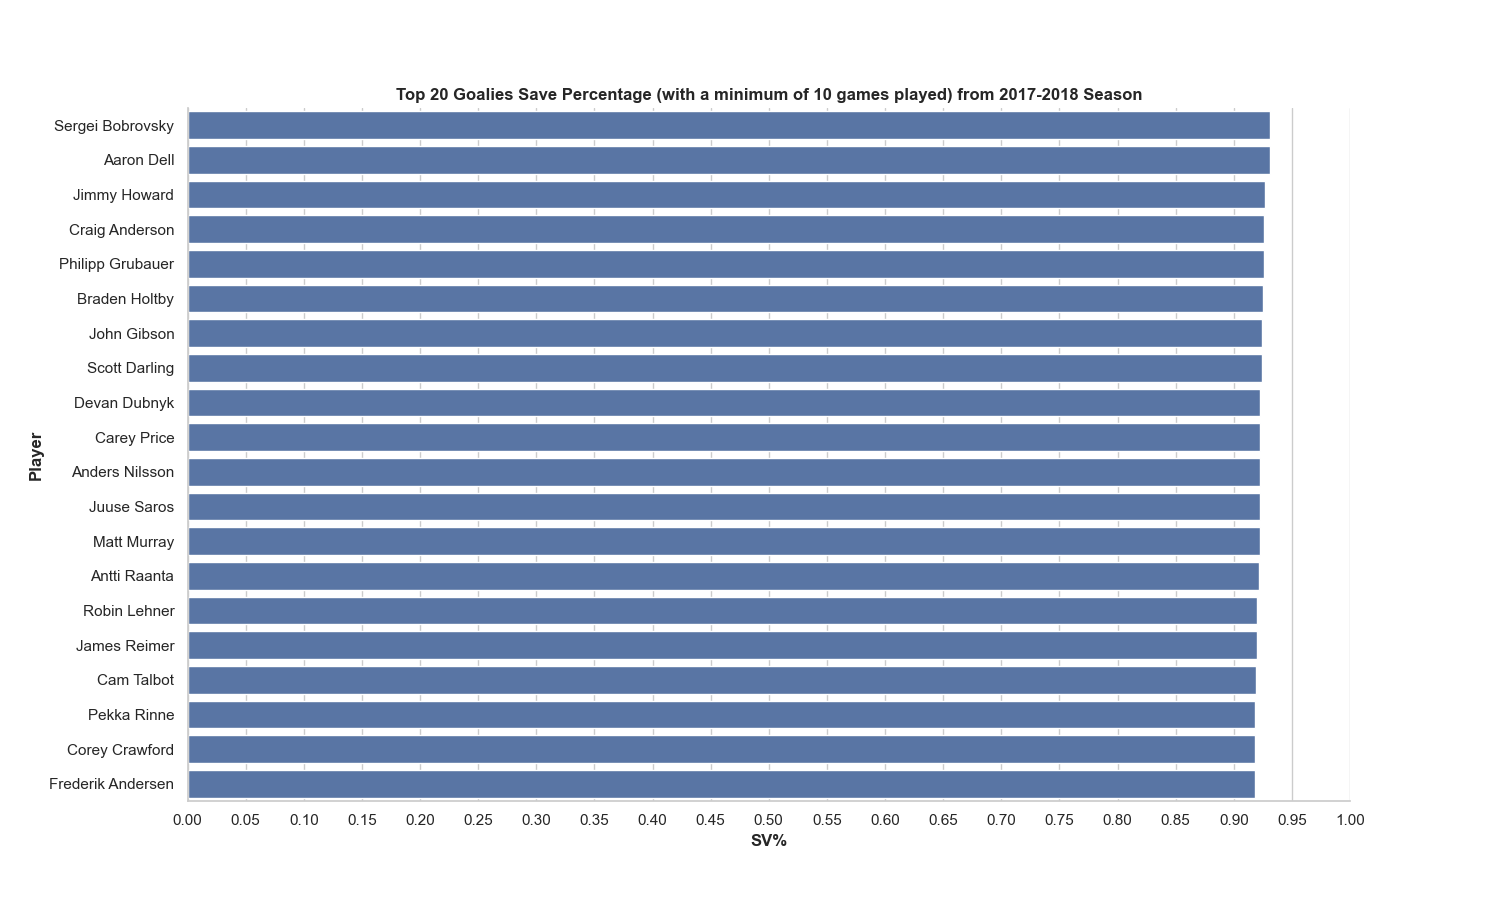
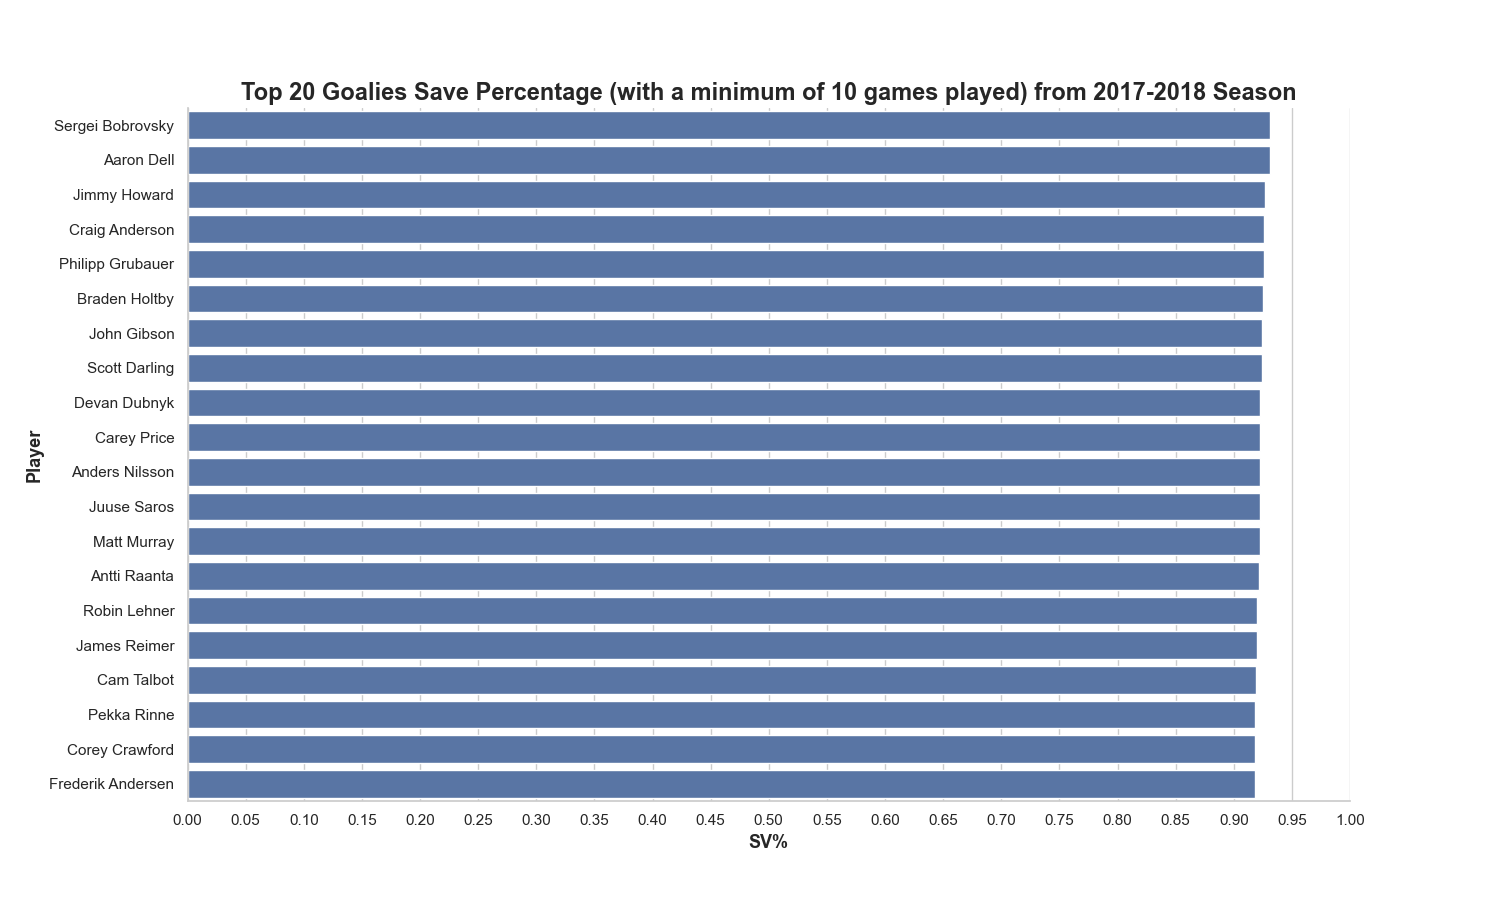
#2 Finalizing warmup blog post. Fixed milestone-1 specific page to show all appropriate content.

Changed region(s): [[0.1533, 0.0933, 0.8587, 0.1244], [0.0, 0.4667, 0.0307, 0.5289], [0.4907, 0.9333, 0.5213, 0.9644]]

diff --git a/project/ift6758/data/question_1.py b/project/ift6758/data/question_1.py
@@ -2,7 +2,9 @@ import pandas as pd
 import matplotlib.pyplot as plt
 import seaborn as sns
 
+# FEATURE TOGGLES
 MASK_TOGGLE = False
+
 
 def get_player_stats(year: int, player_type: str) -> pd.DataFrame:
     """
@@ -83,9 +85,9 @@ def main():
 
         fig1 = sns.barplot(x="SV%", y="Player", data=goalies_masked, label="Total", color="b")
 
-        plt.title('Top 20 Goalies Save Percentage (with a minimum of 10 games played) from 2017-2018 Season', weight='bold')
-        plt.xlabel('SV%', weight='bold')
-        plt.ylabel('Player', weight='bold')
+        plt.title('Top 20 Goalies Save Percentage (with a minimum of 10 games played) from 2017-2018 Season', weight='bold', fontsize=17)
+        plt.xlabel('SV%', weight='bold', fontsize=13)
+        plt.ylabel('Player', weight='bold', fontsize=13)
 
         sns.despine()
 
@@ -102,9 +104,9 @@ def main():
 
         fig1 = sns.barplot(x="SV%", y="Player", data=goalies, label="Total", color="r")
 
-        plt.title('Top 20 Goalies Save Percentage (with no minimum games played) from 2017-2018 Season', weight='bold')
-        plt.xlabel('SV%', weight='bold')
-        plt.ylabel('Player', weight='bold')
+        plt.title('Top 20 Goalies Save Percentage (with no minimum games played) from 2017-2018 Season', weight='bold', fontsize=17)
+        plt.xlabel('SV%', weight='bold', fontsize=13)
+        plt.ylabel('Player', weight='bold', fontsize=13)
 
         sns.despine()
 

diff --git a/blog/_posts/2021-09-28-milestone-1.md b/blog/_posts/2021-09-28-milestone-1.md
@@ -4,19 +4,34 @@ title: IFT6758 Milestone 1
 ---
 
 ## Warmup
+Analyzing sports is becoming more and more valuable with the growth of various sensors and technology. In the case of hockey in partiular, be it a goalie or skater, there are certainly a wide range of metrics available for us to analyze the performace of hockey player.
+
 ### Question 1
-Although using the Save Percentage (SV%) is a relatively good metric to measure a goalie's performance, it is certainly not without a set of limitations. For instance, the main one being the number of games played by the goalies. For example, goalies who played one game compared to another goalie who played 50 games. If a goalie played only one game and ended the game with zero goals conceded, he will have an average of 100.00 SV% for this metric. In contrast, a goalie who played 50 games and has an average of 95.00 SV% will look like he was worst than the one with 100.00 SV%. Where in reality, the goalie who played only one game might had an "easier game" or only had to save one shot, which leads to our second issue. A better metric would be for instance to set an inclusion criteria based on a threshold of games played for each goalie. For example, setting a threshold of at least 10 games played before inculding that goalies performance on the 'Top goalies' analysis would be a way to control for the 'low number of shots received and high number of saves' bias. Another more direct inclusion criteria could be to simply set a threshold for the number of shots received by each goalie.
+In the case of hockey goalies, although using the Save Percentage (SV%) is a relatively good metric to measure a goalie's performance, it is certainly not without a set of limitations. The main one being the number of games played by the goalies.
+
+> Save percentage (often known by such symbols as SV%, SVS%, SVP, PCT) is a statistic in many sports that track saves as a statistic. In ice hockey and lacrosse, it is a statistic that represents the percentage of shots on goal a goaltender stops. It is calculated by dividing the number of saves by the total number of shots on goal.
+
+*Here is more information on [save percentage](https://en.wikipedia.org/wiki/Save_percentage).*
+
+For example, if we compare a goalie who only played one game to another goalie who played 50 games during the season. If the goalie who played the single game and ended the game with zero goals conceded, he will have an average SV% of 100.00. In contrast, the goalie who played 50 games and has an average SV% of 95.00 will look like he was worst than the one with 100.00 SV%. Where in reality, the goalie who played only one game might had an "easier game" or even possibly only had to save a very low amount of low quality shots. Here is a visualization of the top 20 nhl goalies from the 2017-2018 season solely based on their save percentage metric:
+
+![Top 20 Goalies 2017](/public/top-goalies-nomask.png)
+
+
+A better metric would be for instance to set an inclusion criteria based on a preset threshold of games played for each goalie. For example, setting a threshold of at least 10 games played before even considering the goalie's performance on the 'Top goalies' analysis. This would be a way to control the 'low number of shots received with high number of saves' bias. Another, slighlty different inclusion criteria could be to simply set a threshold for the number of shots received by each goalie.
 
 ### Question 2
-Both these graphs were generated using the top 20 goalies based on their SV%. Graph 1 applied a mask that excluded goalies that had less than 10 games played. Graph 2 included all goalies, independantly of the numbers of games played.
+Here is a filtered visualization where we applied a mask that excluded goalies that had less than 10 games played during that same season:
 
-#### Graph 1:
-![Top 20 Goalies 2017](public/top-goalies-mask.png)
-
-#### Graph 2:
-![Top 20 Goalies 2017](public/top-goalies-nomask.png)
+![Top 20 Goalies 2017](/public/top-goalies-mask.png)
 
 
 ### Question 3
-There are many features that could optimise the estimation of a goalie's performance. Save Percentage, although limited in it's interpretation is actually quite relevant when used appropriately and within it's set of limitations. Another usefull feature could be the SV% for each of the 3 periods. This could be an indicator of performance in function of time, although this feature would again be subject to similar limitation as previously discussed. On the other hand, if the inclusion criterias are set in a way to reduce the bias discussed in question 1, then this feature could be quite interesting to measure if a goalie's performance decrease, remains stable, or increases as the game progresses. Taking a look at where (in terms of a 2D space representing the surface of the goal's entrance) the goalie seems to be most efficient in saving/conceding shots could definetly be a usefull feature to highlight the strenghts/weaknesses of a goalie's performance. If for instance most shots a goalie conceeds are located on the top-right space of the grid, then that information could definetly be usefull in different ways. The same type of information could be used but instead of using the 2D grid as a representation of the goal, it could be the location of the shot origin point on the ice, this would give a usefull indicator of a goalies performance in terms of where he/she is receiving a shot from on the ice. These two features could also be combined into one. It would also be relevant to use a feature measuring the goalie's performance in 1 v 1 scenarios for instance in the penalty shots scenario.
+There are many features that could optimise the estimation of a goalie's performance. Save Percentage, although limited in it's interpretation is actually quite relevant when used appropriately and within it's set of limitations. Here are a couple of features that could potentially be usefull in determining a goalie's performance.
+
+A usefull feature could be the SV% for each of the 3 periods. This could be an indicator of performance in function of time, although this feature would again be subject to similar limitation as previously discussed. On the other hand, if the inclusion criterias are set in a way to reduce the bias discussed previously in question 1, then this feature could be quite interesting to measure if a goalie's performance decrease, remains stable, or increases as the game progresses.
+
+Another variation of the save percentage would be interesting to observe and experiment with is the goalie's SV% during different states of a game. Such as the SV% when the goalie's team is leading, equal or trailling.
+
+Taking a look at where (in terms of a 2D space representing the surface of the goal's entrance) the goalie seems to be most efficient in saving/conceding shots could definetly be a usefull feature to highlight the strenghts/weaknesses of a goalie's performance. If for instance most shots a goalie conceeds are located on the top-right space of the grid, then that information could definetly be usefull in different ways. The same type of information could be used but instead of using the 2D grid as a representation of the goal, it could be the location of the shot origin point on the ice, this would give a usefull indicator of a goalies performance in terms of where he/she is receiving a shot from on the ice. These two features could also be combined into one. It would also be relevant to use a feature measuring the goalie's performance in 1 v 1 scenarios for instance in the penalty shots scenario.
 
